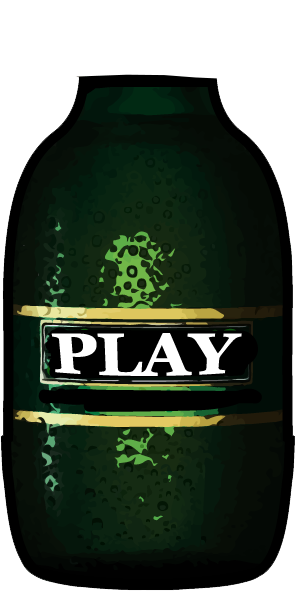
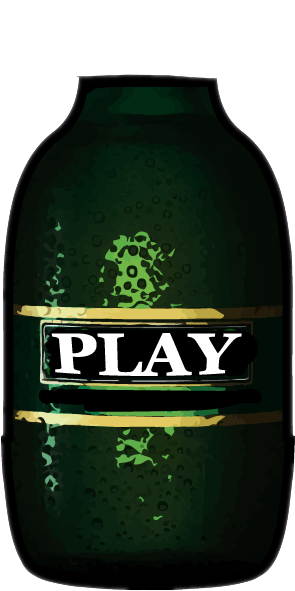
modifies images

diff --git a/index.html b/index.html
@@ -211,8 +211,8 @@
 		</div>
 			<div id="bottle-wrapper" onclick="toggleInput()">
 				<img src="images/cap-2.png" class="bottle cap">
-				<img src="images/play-2.png" class="bottle play">
-				<img src="images/pause-2.png" class="bottle pause">
+				<img src="images/play-3.png" class="bottle play">
+				<img src="images/pause-3.png" class="bottle pause">
 				<img src="images/loading.png" alt="" class="bottle loading">
 			</div>
 		<div id="bandcamp">

diff --git a/script.js b/script.js
@@ -17,9 +17,11 @@ $(function(){
 			// });
 		if (soundFile.isPlaying()){
 			$('.pause').show();
+			$('.play').hide();
 			$('.cap').animate({'top':'-15px'}, 100);
 		} else {
 			$('.pause').hide();
+			$('.play').show();
 			$('.cap').animate({'top':'0px'}, 100);
 		}
 		});
